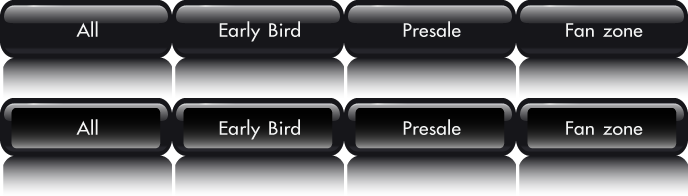
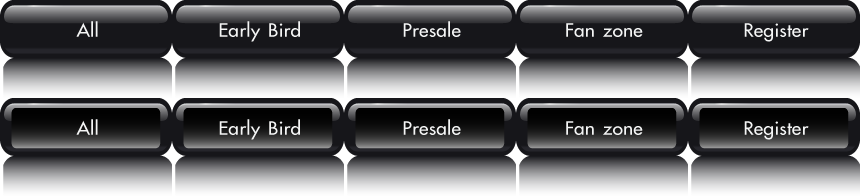
add register button

diff --git a/css/en/style.css b/css/en/style.css
@@ -431,4 +431,9 @@ form input {
 .page-plan #b-container li a.b-fanzone  { background-position:-516px 0px; }
 .page-plan #b-container li a.b-fanzone-active,
 .page-plan #b-container li a.b-fanzone:hover { background-position:-516px -98px; }
+
+.page-plan #b-container li.b-register-container  { margin-top:50px; }
+.page-plan #b-container li a.b-register  { background-position:-688px 0px; }
+.page-plan #b-container li a.b-register-active,
+.page-plan #b-container li a.b-register:hover { background-position:-688px -98px; }
 /* end plan */

diff --git a/css/style.css b/css/style.css
@@ -431,4 +431,9 @@ form input {
 .page-plan #b-container li a.b-fanzone  { background-position:-516px 0px; }
 .page-plan #b-container li a.b-fanzone-active,
 .page-plan #b-container li a.b-fanzone:hover { background-position:-516px -98px; }
+
+.page-plan #b-container li.b-register-container  { margin-top:50px; }
+.page-plan #b-container li a.b-register  { background-position:-688px 0px; }
+.page-plan #b-container li a.b-register-active,
+.page-plan #b-container li a.b-register:hover { background-position:-688px -98px; }
 /* end plan */

diff --git a/application/views/plan.php b/application/views/plan.php
@@ -8,32 +8,40 @@
 		<img id="fanzone" src="<?= base_url("/images/zone/plan-fanzone.gif") ?>" style="width:590px; height:624px; position:absolute; top:100px; left:86px; display:none;" />
 
 		<ul id="b-container">
-			<li class="b-all-container"><a href="#all" class="b-all-active">ทั้งหมด</a></li>
-			<li class="b-early-container"><a href="#early" class="b-early">ทั้งหมด</a></li>
-			<li class="b-presale-container"><a href="#presale" class="b-presale">ทั้งหมด</a></li>
-			<li class="b-fanzone-container"><a href="#fanzone" class="b-fanzone">ทั้งหมด</a></li>
+			<li class="b-all-container"><a href="#all" class="b-all-active b-plan">ทั้งหมด</a></li>
+			<li class="b-early-container"><a href="#early" class="b-early b-plan">ทั้งหมด</a></li>
+			<li class="b-presale-container"><a href="#presale" class="b-presale b-plan">ทั้งหมด</a></li>
+			<li class="b-fanzone-container"><a href="#fanzone" class="b-fanzone b-plan">ทั้งหมด</a></li>
+	<?php
+		if(!is_user_session_exist($this)):
+	?>
+			<li class="b-register-container"><a href="member/register" class="b-register">ลงทะเบียน</a></li>
+	<?php endif; ?>
 		</ul>
 	</div>
 </div>
 <script type="text/javascript">
 	$(function(){
 		var imgs = $('#content img'),
-			buttons = $('#b-container a');
+			buttons = $('a.b-plan');
 		buttons.click(function(e){
 			e.preventDefault();
 
 			var el = $(this),
-				href=$(this).attr('href');
+				href=$(this).attr('href'),
+				target = $(href);
 
-			buttons.each(function(i,o){
-				var cls = $(o).attr('class');
-				$(o).removeClass(cls).addClass(cls.replace('-active',''));
-			});
-			imgs.hide();
+			if(target.length>0){
+				buttons.each(function(i,o){
+					var cls = $(o).attr('class');
+					$(o).removeClass(cls).addClass(cls.replace('-active',''));
+				});
+				imgs.hide();
 
-			$(href).show();
+				target.show();
 
-			el.attr('class', el.attr('class')+'-active');
+				el.attr('class', el.attr('class')+'-active');
+			}
 
 		});
 	});

diff --git a/application/views/landing-all.php b/application/views/landing-all.php
@@ -37,7 +37,7 @@ function MM_swapImage() { //v3.0
     <td rowspan="2"><img src="<?= base_url('images/landing-all/images/bg_02.jpg') ?>" width="2" height="566" /></td>
     <td><img src="<?= base_url('images/landing-all/images/bg_03.jpg') ?>" width="85" height="473" /></td>
      <td><img src="<?= base_url('images/landing-all/001.png') ?>" width="271" height="476" id="Image9" /></a></td>
-    <td><a href="<?= site_url('sbsmtv2013') ?>" onmouseout="MM_swapImgRestore()" onmouseover="MM_swapImage('Image10','','<?= base_url('images/landing-all/002_2.png?k22') ?>',1)"><img src="<?= base_url('images/landing-all/002.png?k2') ?>" width="271" height="476" id="Image10" /></a></td>
+    <td><a href="<?= site_url('sbsmtv2013') ?>" onmouseout="MM_swapImgRestore()" onmouseover="MM_swapImage('Image10','','<?= base_url('images/landing-all/002_2.png?k12') ?>',1)"><img src="<?= base_url('images/landing-all/002.png?k1') ?>" width="271" height="476" id="Image10" /></a></td>
     <td><a href="https://www.facebook.com/pages/Season-of-Love-Song/102605726466834?fref=ts" onmouseout="MM_swapImgRestore()" onmouseover="MM_swapImage('Image11','','<?= base_url('images/landing-all/003_2.png') ?>',1)"><img src="<?= base_url('images/landing-all/003.png') ?>" name="Image11" width="271" height="476" border="0" id="Image11" /></a></td>
     <td><img src="<?= base_url('images/landing-all/images/bg_07.jpg') ?>" width="76" height="473" /></td>
   </tr>

diff --git a/application/controllers/zone_early.php b/application/controllers/zone_early.php
@@ -20,6 +20,11 @@ class Zone_early extends CI_Controller {
 	}
 
 	function index(){
+		// fix disable session user
+		delete_user_session($this);
+		redirect('sbs2013');
+		return;
+
 		if(!is_user_session_exist($this))
 			redirect('member/login?rurl='.uri_string());
 		$user_id = get_user_session_id($this);
@@ -88,6 +93,11 @@ class Zone_early extends CI_Controller {
 	}
 
 	function submit(){
+		// fix disable session user
+		delete_user_session($this);
+		redirect('sbs2013');
+		return;
+
 		if(!is_user_session_exist($this))
 			redirect('member/login');
 		$user_id = get_user_session_id($this);

diff --git a/application/controllers/member.php b/application/controllers/member.php
@@ -92,13 +92,13 @@ class Member extends CI_Controller {
 			// send email
 			$this->email_model->send_register_success($original_data);
 
-			// auto login
-			$this->person_model->login($this->input->post('username'), $this->input->post('password'));
-
-			if(period_helper_pre_register())
+			if(period_helper_pre_register()){
 				redirect('member/register_pre_success');
-			else
+			}else{
+				// auto login
+				$this->person_model->login($this->input->post('username'), $this->input->post('password'));
 				redirect('member/register_success');
+			}
 		}
 	}
 

diff --git a/application/views/index.php b/application/views/index.php
@@ -7,7 +7,7 @@
 	?>
 		<a href="<?= site_url('member/register') ?>"
 			style="position:absolute; bottom:20px; left:264px; display:block; text-indent:-3000px; background:transparent url('<?= base_url('images'.(language_helper_is_en($this)?'/en':'').'/index/b-register.png') ?>') no-repeat; width:482px; height:77px;"
-			>สมัครสมาชิก</a>
+			>ลงทะเบียน</a>
 	<?php endif; ?>
 	</div>
 </div>

diff --git a/application/controllers/zone.php b/application/controllers/zone.php
@@ -20,6 +20,11 @@ class Zone extends CI_Controller {
 	}
 
 	function index(){
+		// fix disable session user
+		delete_user_session($this);
+		redirect('sbs2013');
+		return;
+
 		if(!is_user_session_exist($this))
 			redirect('member/login?rurl='.uri_string());
 		$user_id = get_user_session_id($this);

diff --git a/application/controllers/seat_early.php b/application/controllers/seat_early.php
@@ -21,6 +21,11 @@ class Seat_early extends CI_Controller {
 	}
 
 	function index(){
+		// fix disable session user
+		delete_user_session($this);
+		redirect('sbs2013');
+		return;
+
 		$this->benchmark->mark('overall_start');
 
 		if(!is_user_session_exist($this))
